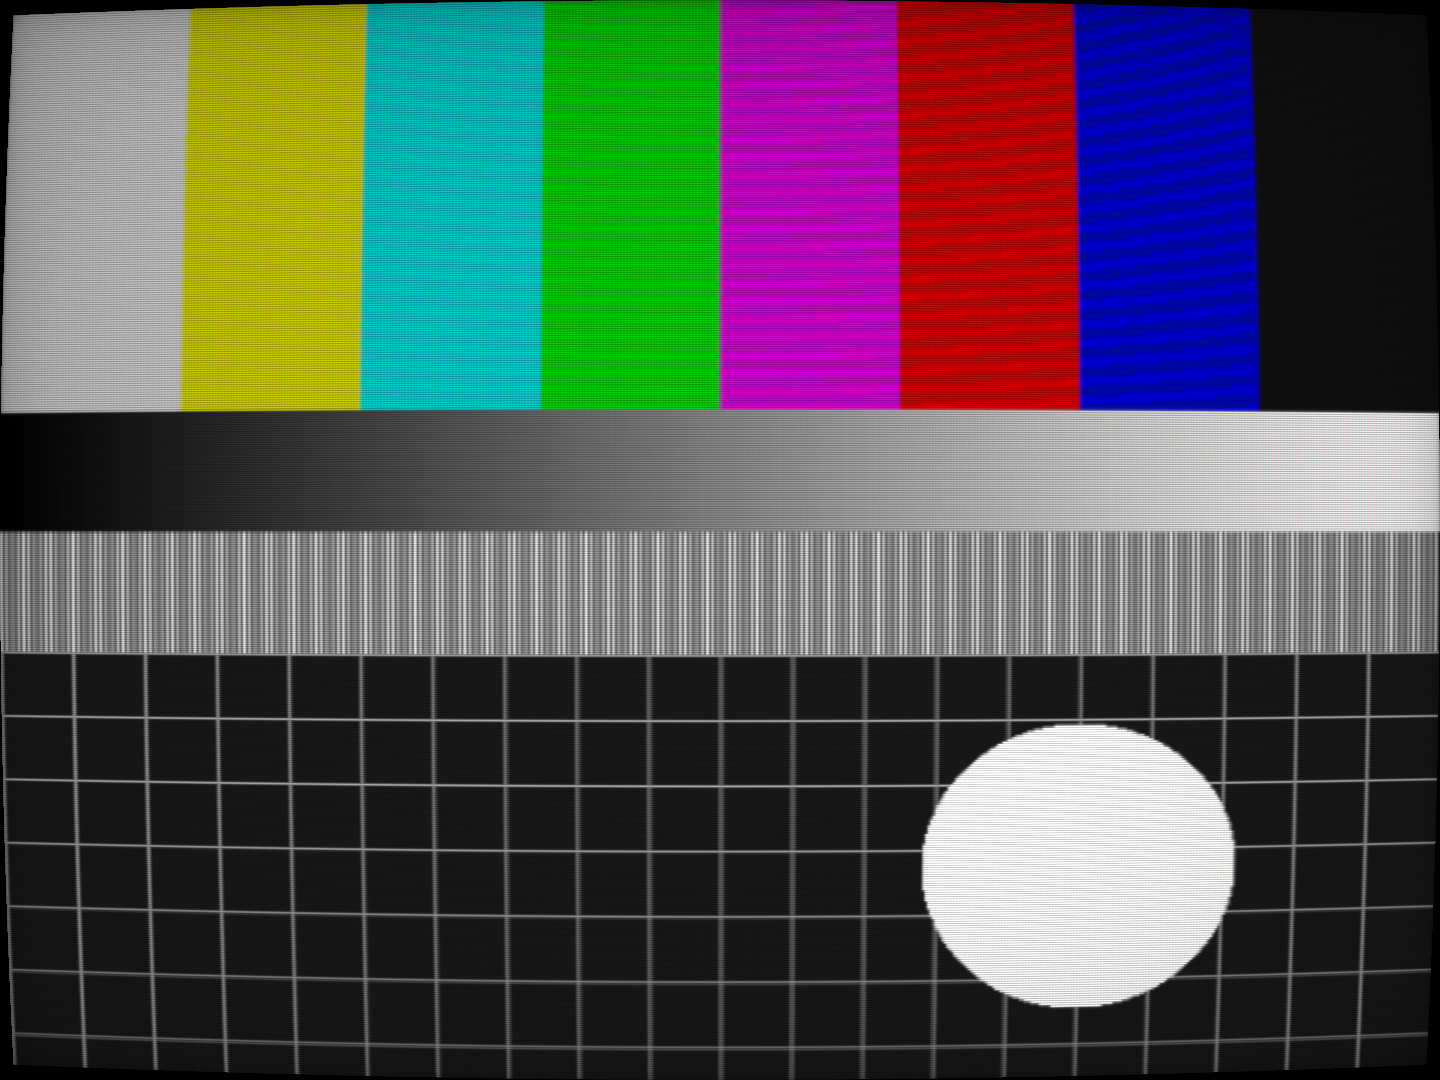
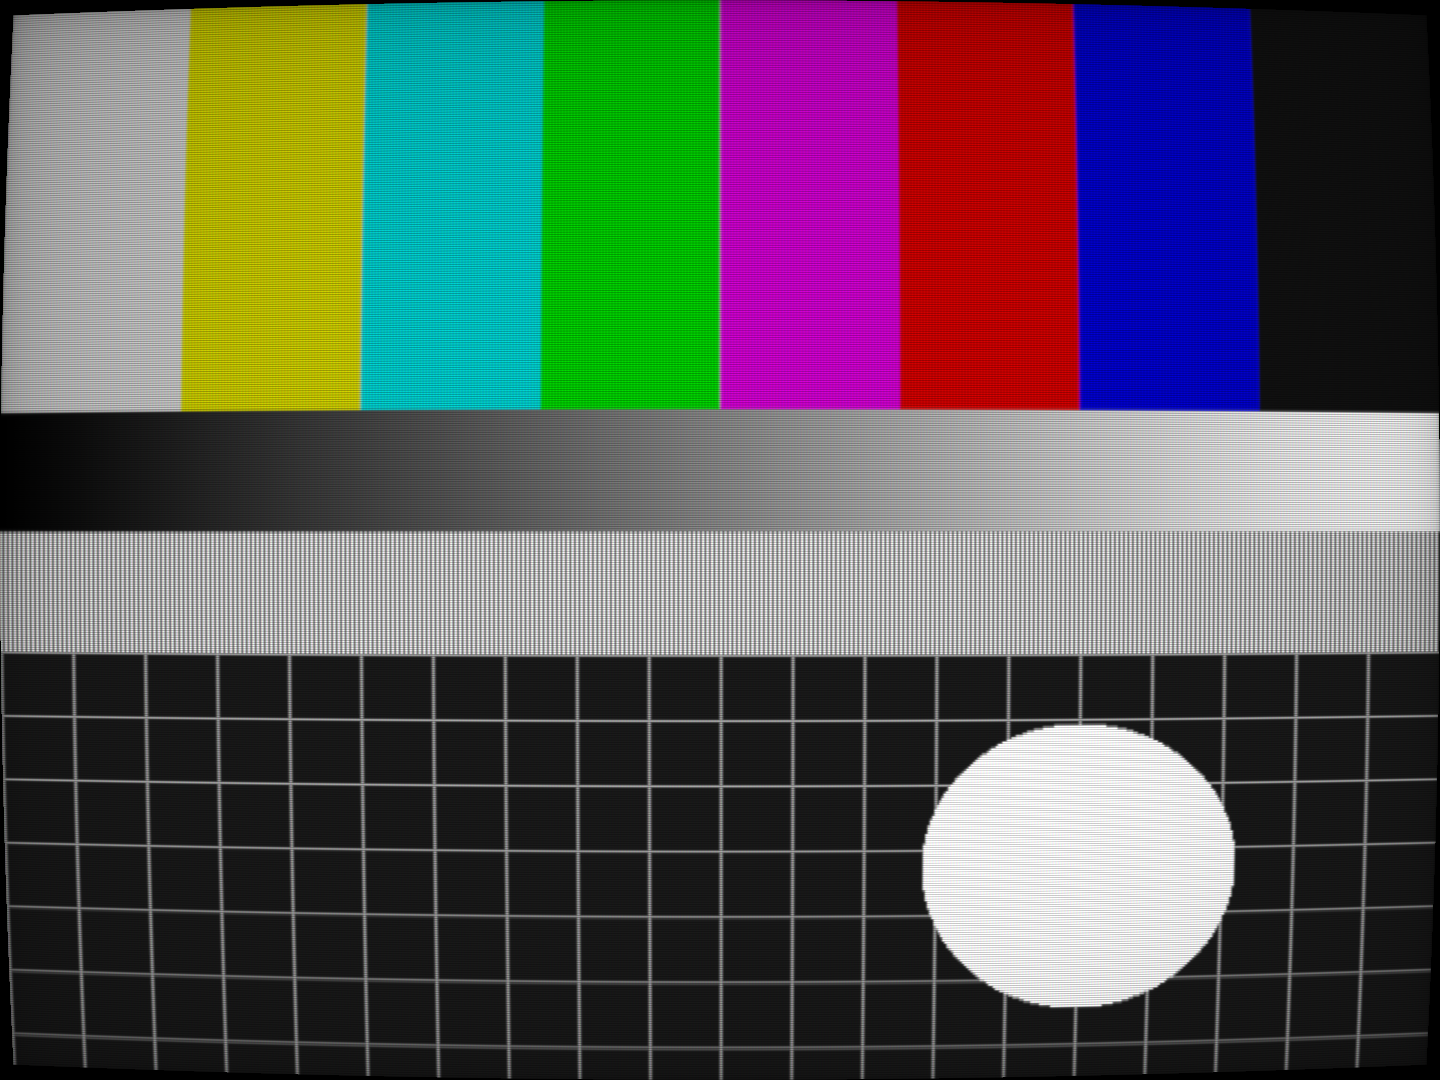
Give the virtual raster a fixed 640-pixel width instead of deriving it from the frame's aspect
Tying width to the line count resampled the console's 640 columns onto ~581 (528-line frames)
or ~535 (PAL), which beat against one-pixel detail and drew moire across text and HUDs. Width is
now its own option, default 640. On the test pattern the spread of line peak heights drops from
0.145 to 0.011.

The preview tool now reports GetResolution from the input image's size instead of a fixed
3840x3168.

Changed region(s): [[0.0, 0.4889, 1.0, 0.6111]]

diff --git a/tools/glrender.py b/tools/glrender.py
@@ -15,10 +15,12 @@ ctx = OSMesaCreateContextAttribs(attrs, None)
 buf = arrays.GLubyteArray.zeros((H, W, 4))
 assert OSMesaMakeCurrent(ctx, buf, GL.GL_UNSIGNED_BYTE, W, H)
 src = open(sys.argv[1]).read()
+img = np.array(Image.open(sys.argv[2]).convert("RGBA"))  # top row first; v_tex0.y=0 is top
+IR = 6       # GetResolution reports the input as if rendered at 6x internal resolution
 opts = dict(re.findall(r"OptionName\s*=\s*(\w+)\s*\n[^\[]*?DefaultValue\s*=\s*([-\d.]+)", src))
 pre = "#version 330 core\n#define float2 vec2\n#define float3 vec3\n#define float4 vec4\n#define lerp mix\nuniform sampler2D samp1;\nin vec2 v_tex0;\nout vec4 ocol0;\n"
 pre += "".join(f"uniform float {o};\n" for o in opts)
-pre += "#define GetOption(x) (x)\nvec2 GetResolution(){return vec2(3840.0,3168.0);}\nvec2 GetWindowResolution(){return vec2(%d.0,%d.0);}\nvec2 GetCoordinates(){return v_tex0;}\nvec4 SampleLocation(vec2 p){return texture(samp1,p);}\nvoid SetOutput(vec4 c){ocol0=c;}\n" % (W, H)
+pre += "#define GetOption(x) (x)\nvec2 GetResolution(){return vec2(%d.0,%d.0);}\nvec2 GetWindowResolution(){return vec2(%d.0,%d.0);}\nvec2 GetCoordinates(){return v_tex0;}\nvec4 SampleLocation(vec2 p){return texture(samp1,p);}\nvoid SetOutput(vec4 c){ocol0=c;}\n" % (IR * img.shape[1], IR * img.shape[0], W, H)
 vs = "#version 330 core\nout vec2 v_tex0;\nvoid main(){vec2 p=vec2((gl_VertexID<<1)&2, gl_VertexID&2); v_tex0=vec2(p.x, 1.0-p.y); gl_Position=vec4(p*2.0-1.0,0.0,1.0);}\n"
 def sh(kind, s):
     o = GL.glCreateShader(kind); GL.glShaderSource(o, s); GL.glCompileShader(o)
@@ -29,7 +31,6 @@ GL.glAttachShader(p, sh(GL.GL_VERTEX_SHADER, vs)); GL.glAttachShader(p, sh(GL.GL
 GL.glLinkProgram(p); assert GL.glGetProgramiv(p, GL.GL_LINK_STATUS), GL.glGetProgramInfoLog(p)
 GL.glUseProgram(p)
 for o, v in opts.items(): GL.glUniform1f(GL.glGetUniformLocation(p, o), float(v))
-img = np.array(Image.open(sys.argv[2]).convert("RGBA"))  # top row first; v_tex0.y=0 is top
 tex = GL.glGenTextures(1); GL.glBindTexture(GL.GL_TEXTURE_2D, tex)
 GL.glTexImage2D(GL.GL_TEXTURE_2D, 0, GL.GL_RGBA8, img.shape[1], img.shape[0], 0, GL.GL_RGBA, GL.GL_UNSIGNED_BYTE, img)
 for k in (GL.GL_TEXTURE_MIN_FILTER, GL.GL_TEXTURE_MAG_FILTER): GL.glTexParameteri(GL.GL_TEXTURE_2D, k, GL.GL_LINEAR)

diff --git a/README.md b/README.md
@@ -29,6 +29,7 @@ shaders use.
 | Option | Default | What it does |
 |---|---|---|
 | Virtual scanlines | 480 | Line count of the simulated tube. 240 gives chunky low-res lines. Independent of internal resolution, so 6x IR still shows visible lines. |
+| Horizontal resolution | 640 | Pixels per line of the simulated tube. 640 matches GameCube/Wii output, so one-pixel detail (text, HUDs) stays sharp and free of moiré. Raise it for widescreen-hack frames. |
 | Scanline hardness | -8 | More negative gives thinner lines with darker gaps. |
 | Horizontal sharpness | -3 | More negative gives sharper pixels along each line. |
 | Curvature X / Y | 0.02 / 0.03 | Barrel warp. 0 for a flat screen. |
@@ -48,7 +49,7 @@ python3 tools/testpattern.py pattern.png   # or use your own screenshot
 env -u DISPLAY python3 tools/glrender.py Shaders/crt_scanlines.glsl pattern.png out.png
 ```
 
-The tool stubs Dolphin's shader API (`GetResolution` reports a 6x-IR frame, `GetCoordinates` runs
+The tool stubs Dolphin's shader API (`GetResolution` reports the input at 6x internal resolution, `GetCoordinates` runs
 0..1) to match Dolphin's semantics. Dolphin itself remains the reference.
 
 ## Credits and license
